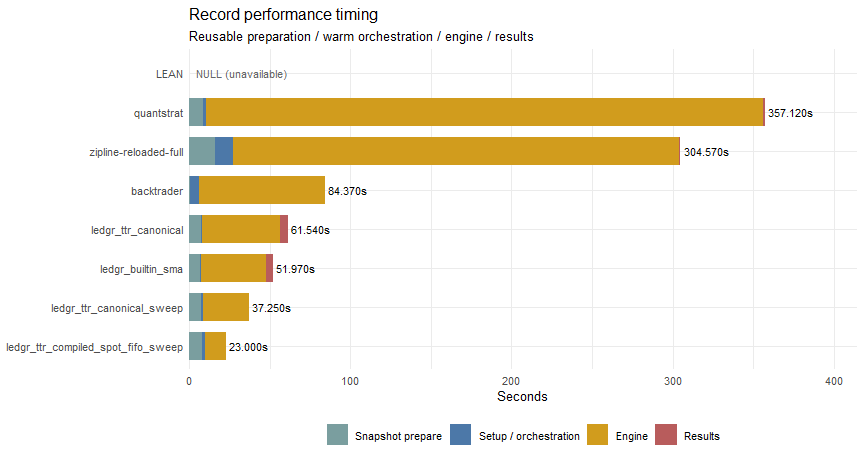
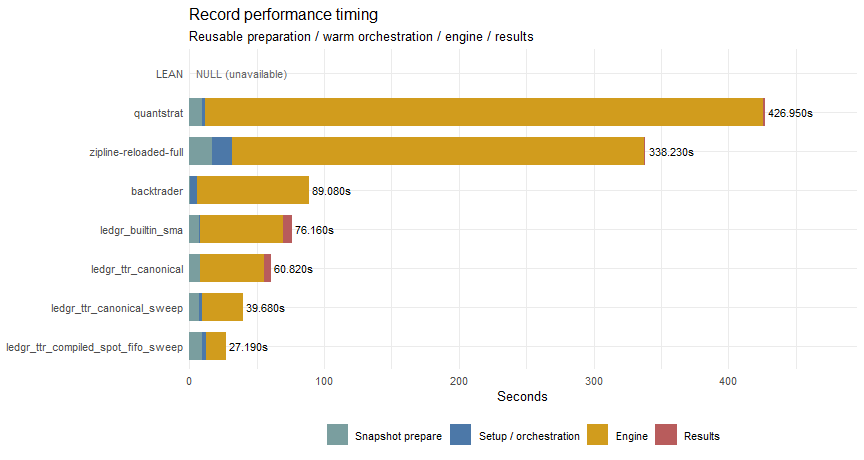
LDG-2836 record the public TTR peer boundary
Promote the sampled fresh-process record, render feature and economic parity, demonstrate launch-order timing confounding, preserve NULL/factor plotting contracts, and record the result without claiming a speedup.

diff --git a/dev/bench/peer_benchmark/peer_benchmark.md b/dev/bench/peer_benchmark/peer_benchmark.md
@@ -1,25 +1,25 @@
 # ledgr Peer Parity And Performance Benchmark Report
 
 
-This tracked report records the v0.2.0.2 internal same-host peer
+This tracked report records the v0.2.1.0 internal same-host peer
 workload. Parity is interpreted before timing. The report preserves
 phase boundaries, unavailable engines, and classified divergences
 without turning one host and one fixture into a public engine ranking.
 
-The exact closeout command was:
+The exact sampled record command was:
 
 ``` powershell
-$env:R_PROFILE_USER = "C:\tmp\ledgr-batch10-profile.R"
-$env:LEDGR_BATCH10_LIB = "C:\tmp\ledgr-quantstrat-batch10-lib"
-& "C:\Program Files\R\R-4.6.1\bin\x64\Rscript.exe" dev/bench/peer_benchmark/peer_benchmark.R --preset record --release v0.2.0.2 --engine-set all --n-inst 500 --n-days 1260 --fast 5 --slow 10 --seed 20260530 --compiled-accounting-model spot_fifo
+& dev/bench/peer_benchmark/run_record.ps1 `
+  -RepoRoot "C:\tmp\ledgr-ws12" `
+  -Release "v0.2.1.0" `
+  -LedgrOrder "ttr-first"
 ```
 
 The exact ignored local prefix is
-`dev/bench/results/peer_benchmark_record_20260923T001439Z`. The
-Workstream 8 review candidate was measured over base commit
-`9cb8c2e692c821cd7fb57831fc81865ffc96b080`; the exact uncommitted
-benchmark harness has SHA-256
[1 lines of base64/hex data omitted]
+`dev/bench/results/peer_benchmark_record_20260926T080725Z`. It was
+measured from commit `c7d936ddccbdf7affbdcd1c9be22f7d8fdaa7eb0`; the
+exact benchmark harness has SHA-256
[1 lines of base64/hex data omitted]
 ran under R 4.6.1 ucrt on Windows build 26200. Quantstrat 0.25 completed
 from the isolated library with the ticket-pinned blotter 0.17.0,
 FinancialInstrument 1.3.0, xts 0.14.2, and TTR 0.24.4. Backtrader and
@@ -28,9 +28,9 @@ was unavailable because its CLI root uses an obsolete organization
 layout. No hosted LEAN service was used.
 
 The report checks every ledgr row before interpreting its timing. The
-canonical public sweep completed in 37.25 seconds cold and 30.07 seconds
-warm; the public compiled sweep completed in 23.00 seconds cold and
-14.80 seconds warm. The two public sweep rows are exact across all 1,260
+canonical public sweep completed in 39.68 seconds cold and 32.31 seconds
+warm; the public compiled sweep completed in 27.19 seconds cold and
+17.60 seconds warm. The two public sweep rows are exact across all 1,260
 equity rows, 68,201 fills, and the realized-trade row after normalizing
 only the engine label. Against durable ledgr, fills and trades are
 exact; compensated production-inline equity passes the existing relative
@@ -46,6 +46,20 @@ pairs all 1,260 source sessions positionally and records daily-return
 correlation `0.987974`; the v0.2.0.1 report’s `0.146064` was produced by
 the disclosed one-day timestamp misalignment and remains historical
 evidence rather than being rewritten.
+
+Workstream 17 also corrects the indicator boundary. All published TTR
+rows now use exported `ledgr_ind_ttr("SMA")`; the retired private
+wrapper is absent. Durable public TTR and built-in SMA ran in separate
+fresh R processes with identical R, library-path and package-version
+records. Their feature axes and NA masks are exact; 1,260,000 numeric
+cells pass the existing `1e-8` tolerance with maximum absolute residual
+`7.567e-10`. Equity, fills and realized trades are exact. Timing does
+not identify a source effect: the promoted TTR-first record reports warm
+clocks of 53.02 and 68.33 seconds, while the registered built-in-first
+companion reports 65.50 and 69.23 seconds. The second-launched row is
+slower in both orders and the sign reverses. Together with the six-order
+attribution spike, that classifies the old 9.57-second chart gap as
+order/load-confounded rather than a package-speed difference.
 
 > **Scope of this report**
 >
@@ -66,9 +80,9 @@ comparison.
 
 | Surface | B2 seconds | Backtrader seconds | B2 / Backtrader | B2 reduction vs Backtrader |
 |:---|:---|:---|:---|:---|
-| Cold end to end | 23.000 | 84.370 | 0.27x | 72.7% |
-| Warm research iteration | 14.800 | 83.793 | 0.18x | 82.3% |
-| Engine phase | 12.970 | 78.257 | 0.17x | 83.4% |
+| Cold end to end | 27.190 | 89.080 | 0.31x | 69.5% |
+| Warm research iteration | 17.600 | 88.498 | 0.20x | 80.1% |
+| Engine phase | 14.710 | 82.605 | 0.18x | 82.2% |
 
 The three clocks answer different questions. Cold includes the reusable
 sealed snapshot. Warm measures the public research iteration over that
@@ -78,6 +92,37 @@ facts and public accessors; the private full-surface parity oracle runs
 outside every reported clock.
 
 ![](peer_benchmark_files/figure-commonmark/unnamed-chunk-3-1.png)
+
+## Indicator source boundary
+
+The old report always ran a private TTR wrapper before built-in SMA in
+one R process. That row order could not attribute its 9.57-second
+difference. This record replaces the wrapper with exported
+`ledgr_ind_ttr("SMA")` everywhere and runs the two durable rows in
+independent child processes. A companion run reverses their launch order
+at the same 500 by 1,260 shape. The companion is an attribution check,
+not another peer record.
+
+| Surface | Standard | Result | Max absolute residual | Max relative residual |
+|----|----|---:|---:|---:|
+| feature axis | exact | PASS | 0 | 0 |
+| feature NA mask | exact | PASS | 0 | 0 |
+| feature values | relative `all.equal()` tolerance `1e-8` | PASS | 7.567e-10 | 1.182e-13 |
+
+| Order          | Source         | Cold s | Warm s | Engine s |
+|----------------|----------------|-------:|-------:|---------:|
+| TTR first      | public TTR SMA |  60.82 |  53.02 |    47.44 |
+| TTR first      | built-in SMA   |  76.16 |  68.33 |    61.67 |
+| built-in first | built-in SMA   |  73.88 |  65.50 |    60.08 |
+| built-in first | public TTR SMA |  78.56 |  69.23 |    61.86 |
+
+The second-launched row is slower in both orders, and the source ranking
+flips. The earlier six-permutation spike likewise found no structural
+source effect: its first-position means were 50.635 seconds for built-in
+SMA, 51.050 for the private wrapper and 51.295 for public TTR. The old
+9.57-second gap therefore did not reproduce as an indicator-source cost.
+The public-adapter correction is a measurement-boundary fix, not a
+package speedup.
 
 ## Why parity comes before timing
 
@@ -111,13 +156,13 @@ prevents reading a compiled opt-in result as a default ledgr claim.
 
 | Engine row | Status | Cost | Risk | Compiled | Full row | Snapshot prepare | Setup / orchestration | Engine phase | Results | Cold | Warm | Bars/sec |
 |:---|:---|:---|:---|:---|:---|:---|:---|:---|:---|:---|:---|:---|
-| ledgr_ttr_canonical | DONE | cost_zero | risk_none | NA | 61.580 | 7.500 | 0.350 | 48.550 | 5.140 | 61.540 | 54.040 | 10,237.2 |
-| ledgr_ttr_canonical_sweep | DONE | cost_zero | risk_none | NA | 37.330 | 7.180 | 1.670 | 28.400 | 0.000 | 37.250 | 30.070 | 16,912.8 |
-| ledgr_ttr_compiled_spot_fifo_sweep | DONE | cost_zero | risk_none | spot_fifo | 23.050 | 8.200 | 1.750 | 12.970 | 0.080 | 23.000 | 14.800 | 27,391.3 |
-| ledgr_builtin_sma | DONE | cost_zero | risk_none | NA | 51.980 | 7.250 | 0.330 | 39.840 | 4.550 | 51.970 | 44.720 | 12,122.4 |
-| quantstrat | DONE | NA | NA | NA | 357.500 | 8.640 | 1.920 | 345.370 | 1.190 | 357.120 | 348.480 | 1,764.11 |
-| backtrader | DONE | NA | NA | NA | 84.390 | 0.577 | 5.287 | 78.257 | 0.248 | 84.370 | 83.793 | 7,467.11 |
-| zipline-reloaded-full | DONE | NA | NA | NA | 304.570 | 15.908 | 11.560 | 276.562 | 0.540 | 304.570 | 288.662 | 2,068.49 |
+| ledgr_ttr_canonical | DONE | cost_zero | risk_none | NA | 60.860 | 7.800 | 0.360 | 47.440 | 5.220 | 60.820 | 53.020 | 10,358.4 |
+| ledgr_ttr_canonical_sweep | DONE | cost_zero | risk_none | NA | 39.770 | 7.370 | 2.460 | 29.850 | 0.000 | 39.680 | 32.310 | 15,877 |
+| ledgr_ttr_compiled_spot_fifo_sweep | DONE | cost_zero | risk_none | spot_fifo | 27.250 | 9.590 | 2.830 | 14.710 | 0.060 | 27.190 | 17.600 | 23,170.3 |
+| ledgr_builtin_sma | DONE | cost_zero | risk_none | NA | 76.190 | 7.830 | 0.470 | 61.670 | 6.190 | 76.160 | 68.330 | 8,272.06 |
+| quantstrat | DONE | NA | NA | NA | 427.110 | 9.460 | 1.970 | 414.330 | 1.190 | 426.950 | 417.490 | 1,475.58 |
+| backtrader | DONE | NA | NA | NA | 89.110 | 0.582 | 5.627 | 82.605 | 0.266 | 89.080 | 88.498 | 7,072.29 |
+| zipline-reloaded-full | DONE | NA | NA | NA | 338.230 | 17.063 | 14.558 | 305.732 | 0.877 | 338.230 | 321.167 | 1,862.64 |
 | LEAN | UNAVAILABLE | NA | NA | NA | NULL | NULL | NULL | NULL | NULL | NULL | NULL | NA |
 
 Read `Cold` as the sum of snapshot preparation, setup/orchestration,
@@ -417,12 +462,12 @@ are vector operations rather than a per-instrument R loop.
 
 | field | value |
 |:---|:---|
-| created_at | 2026-09-23T00:14:39Z |
-| release | v0.2.0.2 |
+| created_at | 2026-09-26T08:07:25Z |
+| release | v0.2.1.0 |
 | preset | record |
 | input_hash | 0b183457b3fe720d63b02a90fe552e1202fdb31b4e967a75e91304f9d3e416fc |
-| git_sha | 9cb8c2e692c821cd7fb57831fc81865ffc96b080 |
-| process_tree_peak_mib | 1753.8 |
+| git_sha | c7d936ddccbdf7affbdcd1c9be22f7d8fdaa7eb0 |
+| process_tree_peak_mib | 1715.7 |
 | peak_sampling_interval_sec | 1 |
 
 ### Isolated quantstrat environment

diff --git a/dev/bench/peer_benchmark/README.md b/dev/bench/peer_benchmark/README.md
@@ -87,6 +87,35 @@ known 1,250-row Backtrader warm-up boundary and rejects the regressed
 1,008-row Zipline join. The complete sampled process tree peaked at
 1,753.8 MiB across 892 one-second samples.
 
+## v0.2.1.0 Public TTR Boundary Record
+
+Workstream 17 replaces the private benchmark-only TTR wrapper with exported
+`ledgr_ind_ttr("SMA")` in every published TTR-labelled row. The durable public
+TTR and built-in SMA rows run in separate fresh R processes, and their metadata
+must resolve the same R, library paths and package versions. The tracked report
+renders the sampled prefix
+`dev/bench/results/peer_benchmark_record_20260926T080725Z`, produced from
+commit `c7d936ddccbdf7affbdcd1c9be22f7d8fdaa7eb0` with:
+
+```powershell
+& dev/bench/peer_benchmark/run_record.ps1 `
+  -RepoRoot "C:\tmp\ledgr-ws12" `
+  -Release "v0.2.1.0" `
+  -LedgrOrder "ttr-first"
+```
+
+The feature axes and NA masks are exact. Public TTR and built-in values pass
+the registered `1e-8` tolerance over 1,260,000 cells, with maximum absolute
+residual `7.567e-10`; equity, fills and realized trades are exact. Timing does
+not identify an indicator-source cost. The promoted TTR-first warm clocks are
+53.02 seconds for public TTR and 68.33 for built-in; a registered
+built-in-first companion reports 65.50 and 69.23 seconds. The second-launched
+row is slower in both orders and the sign reverses. The old 9.57-second gap is
+therefore recorded as order/load-confounded, consistent with the earlier
+six-permutation attribution spike. The boundary correction is not claimed as
+a package speedup. The sampled process tree peaked at 1,715.7 MiB across
+1,036 one-second samples.
+
 ## Strategy Semantics
 
 All engines use SMA crossover-event semantics:
@@ -104,12 +133,14 @@ Backtrader `CrossOver`, quantstrat `sigCrossover`, the full zipline
 
 ## Engine Rows
 
-- `ledgr_ttr_canonical`: canonical ledgr row using TTR-backed SMA features.
+- `ledgr_ttr_canonical`: canonical ledgr row using exported
+  `ledgr_ind_ttr("SMA")` features in a fresh R process.
 - `ledgr_ttr_canonical_sweep`: public one-candidate sweep using the same
   TTR-backed features, with retained returns and trades inside the clock.
 - `ledgr_ttr_compiled_spot_fifo_sweep`: the same public sweep with the explicit
   compiled spot-FIFO selector.
-- `ledgr_builtin_sma`: ledgr diagnostic row using built-in SMA indicators.
+- `ledgr_builtin_sma`: ledgr diagnostic row using `ledgr_ind_sma()` in a
+  separate fresh R process.
 - `quantstrat`: R quantstrat crossover strategy when local packages exist.
 - `backtrader`: uv-managed Backtrader row.
 - `zipline-reloaded-full`: uv-managed zipline-reloaded row that writes a
